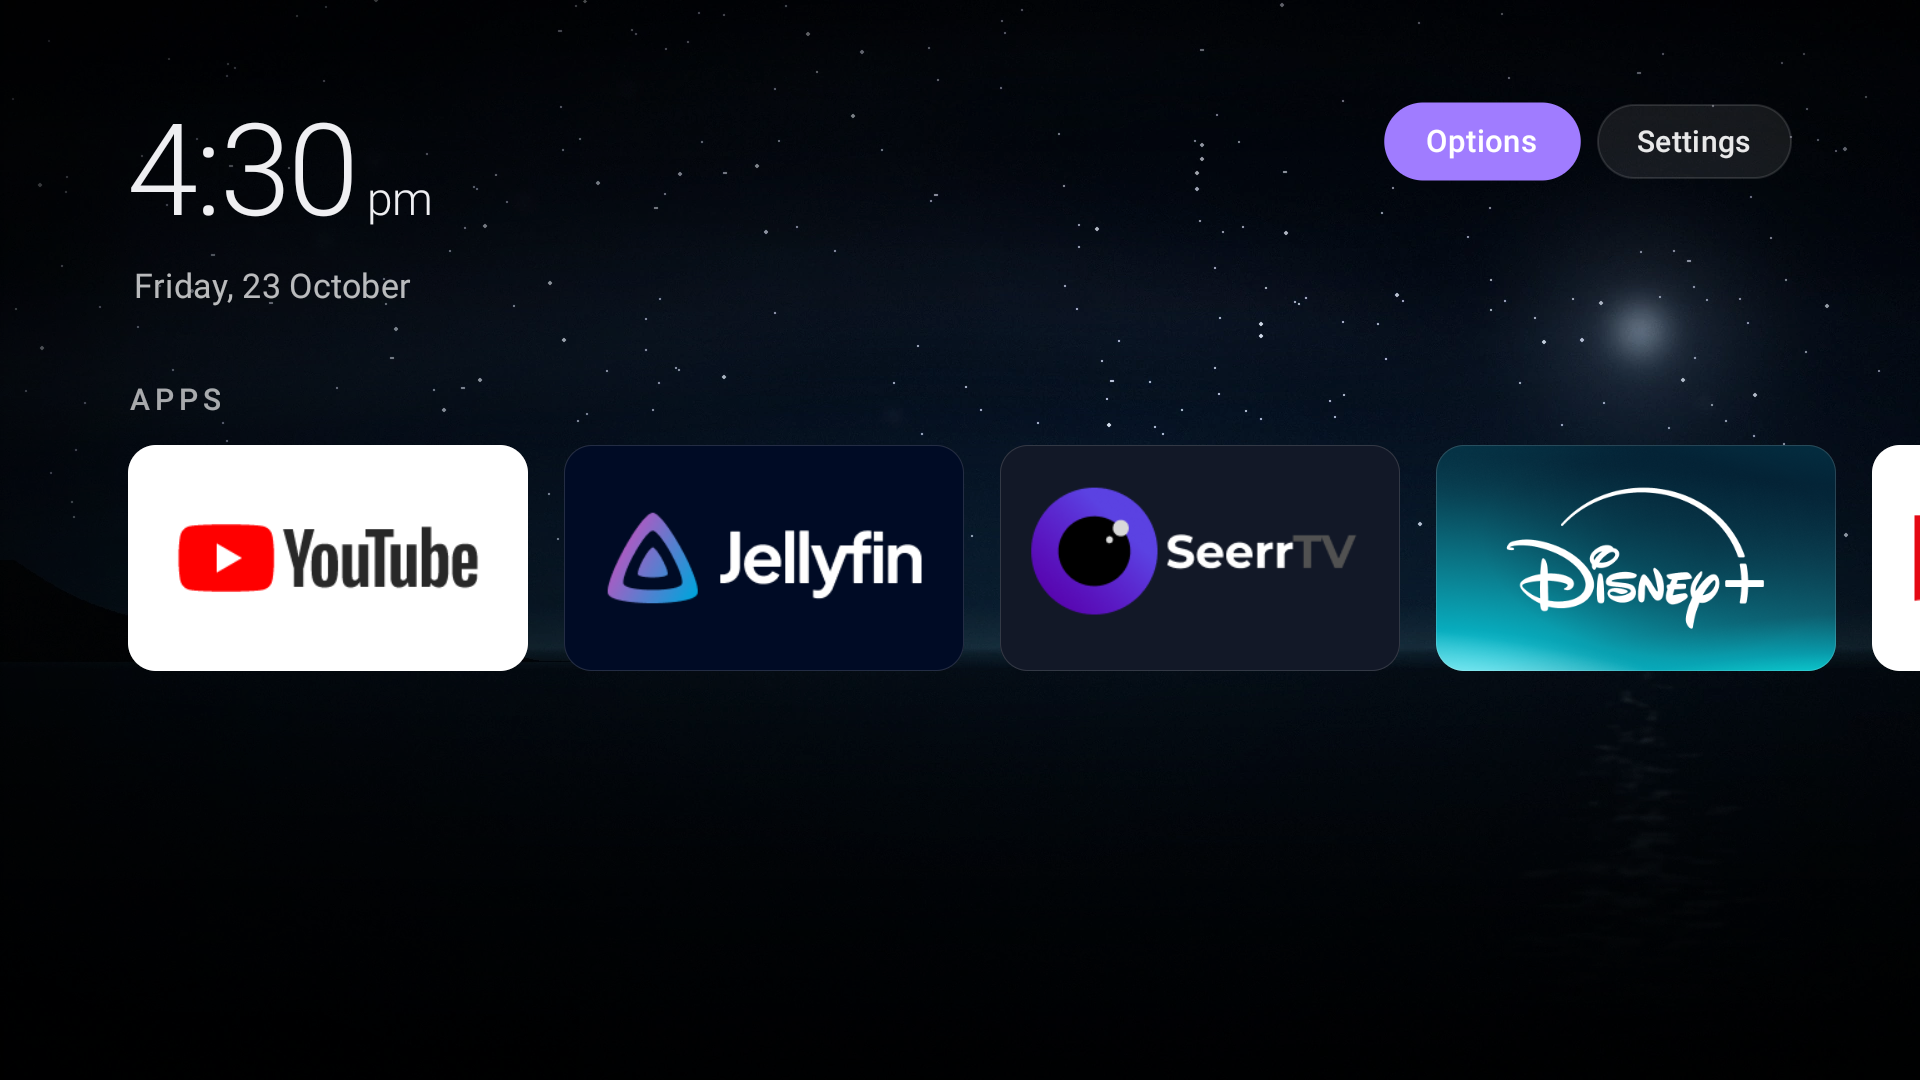
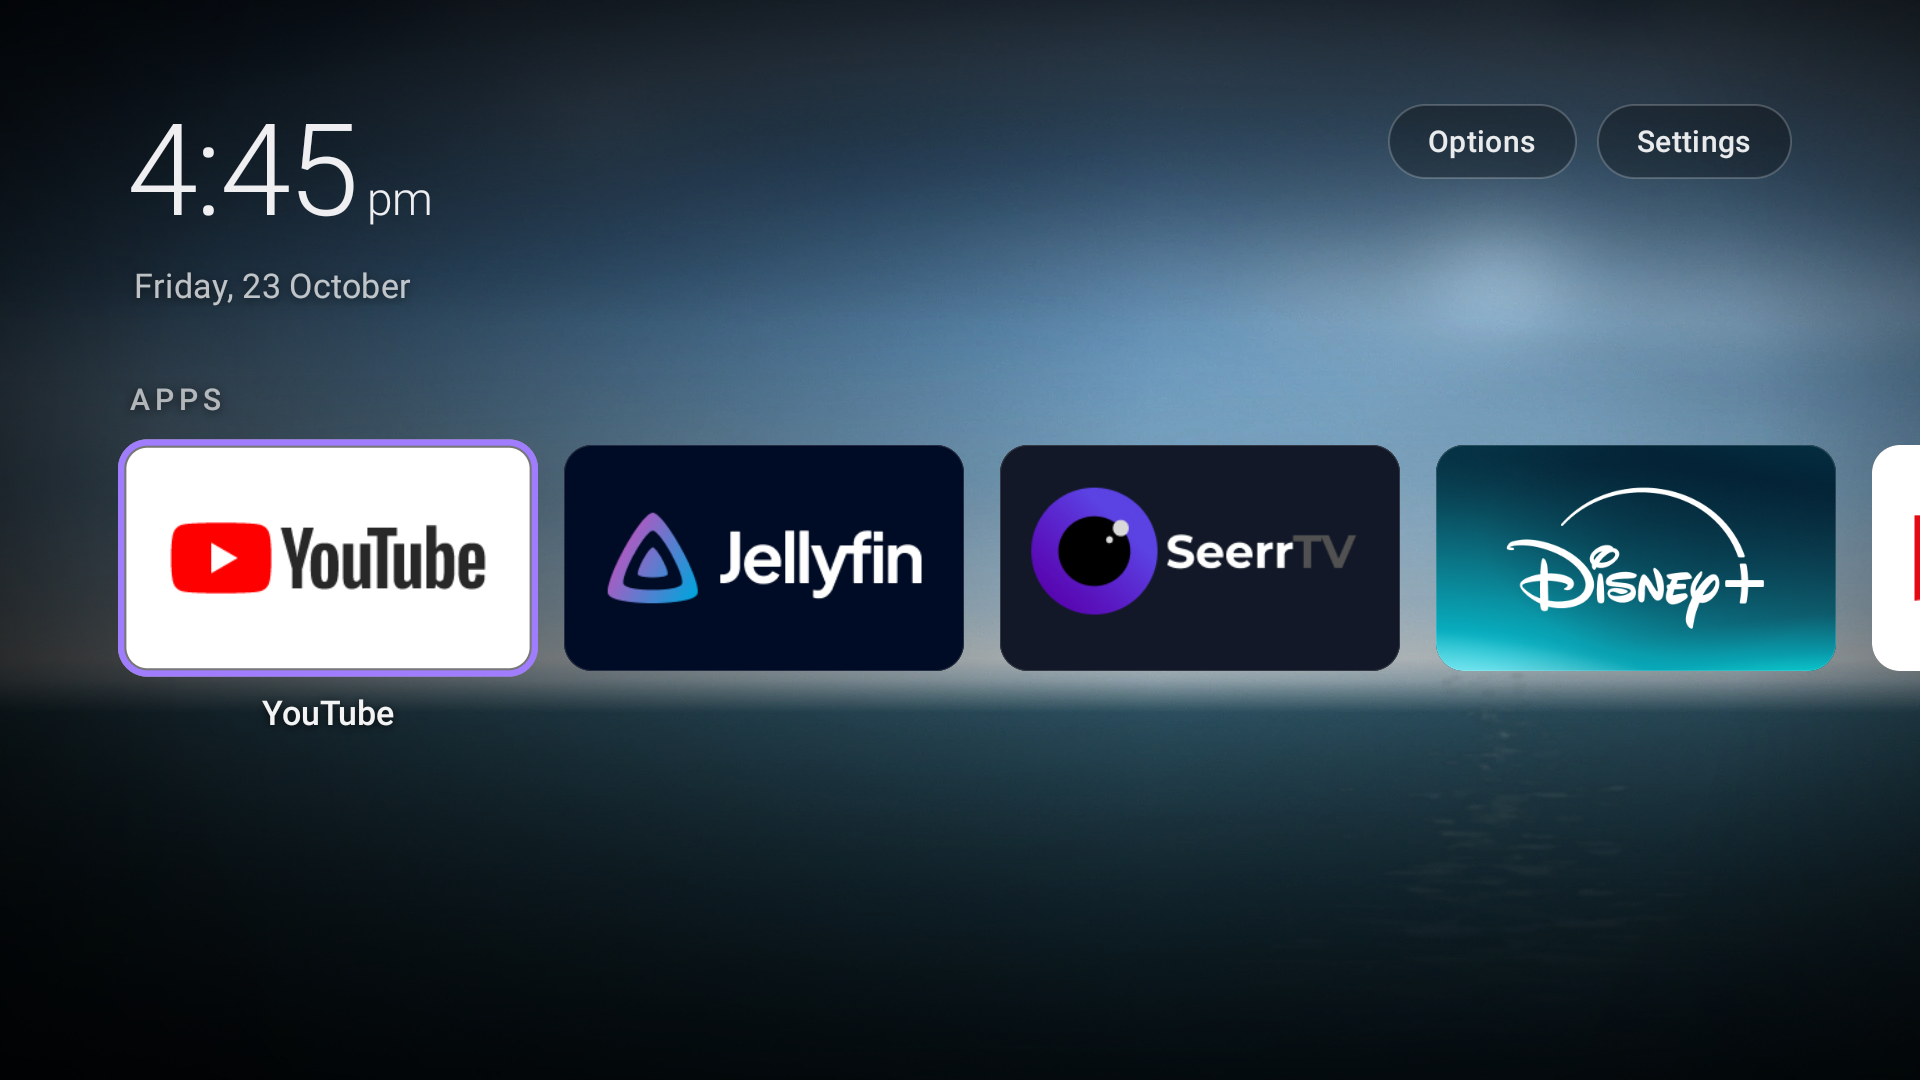
launcher: daylight auto background (1.5)

diff --git a/launcher/src/tv/dumbtv/home/Config.java b/launcher/src/tv/dumbtv/home/Config.java
@@ -74,10 +74,11 @@ final class Config {
             new String[] {"auto", "tv", "home"},
             new String[] {"Automatic", "The TV's app", "dumbtv home"});
     static final Choice BACKGROUND = new Choice("background", "Background", "auto",
-            new String[] {"auto", "aurora", "dunes", "coast", "black", "graphite", "midnight",
+            new String[] {"auto", "day", "aurora", "dunes", "coast", "black", "graphite", "midnight",
                     "image", "adaptive", "adaptive-tint"},
-            new String[] {"Auto by time", "Aurora", "Dunes at dusk", "Moonlit coast", "Black",
-                    "Graphite", "Midnight", "Image file", "Adaptive solid", "Adaptive wallpaper tint"});
+            new String[] {"Auto by time", "Daylight coast", "Aurora", "Dunes at dusk",
+                    "Moonlit coast", "Black", "Graphite", "Midnight", "Image file",
+                    "Adaptive solid", "Adaptive wallpaper tint"});
     static final Choice DIM = new Choice("dim", "Background dim", "0",
             new String[] {"0", "20", "40", "60", "80"},
             new String[] {"0%", "20%", "40%", "60%", "80%"});
@@ -96,7 +97,7 @@ final class Config {
         0xFFFFFFFF, 0xFF3D8BFF, 0xFF2BC4E8, 0xFF34C759, 0xFFFFB340, 0xFFFF5147, 0xFFFF5C9D, 0xFFA07CFF,
     };
     /** Scenes that ship inside the APK, in the order "Next background" steps through them. */
-    static final String[] SCENES = {"aurora", "dunes", "coast"};
+    static final String[] SCENES = {"day", "dunes", "aurora", "coast"};
 
     private static Config instance;
 
@@ -241,8 +242,8 @@ final class Config {
 
     static String autoScene() {
         int h = Calendar.getInstance().get(Calendar.HOUR_OF_DAY);
-        if (h >= 6 && h < 17) return "coast";
-        if (h >= 17 && h < 21) return "dunes";
+        if (h >= 6 && h < 17) return "day";
+        if (h >= 17 && h < 20) return "dunes";
         return "aurora";
     }
 

diff --git a/launcher/src/tv/dumbtv/home/Shade.java b/launcher/src/tv/dumbtv/home/Shade.java
@@ -19,15 +19,17 @@ final class Shade extends View {
     private final Paint paint = new Paint(Paint.ANTI_ALIAS_FLAG);
     private int dim;
     private boolean scenic;
+    private boolean bright;
 
     Shade(Context c) {
         super(c);
     }
 
-    void set(int dimPercent, boolean scenic) {
-        if (this.dim == dimPercent && this.scenic == scenic) return;
+    void set(int dimPercent, boolean scenic, boolean bright) {
+        if (this.dim == dimPercent && this.scenic == scenic && this.bright == bright) return;
         this.dim = dimPercent;
         this.scenic = scenic;
+        this.bright = bright;
         invalidate();
     }
 
@@ -38,12 +40,12 @@ final class Shade extends View {
         if (w == 0 || h == 0) return;
 
         // left: holds the clock and the row titles
-        paint.setShader(new LinearGradient(0, 0, w * 0.60f, 0, 0x80000000, 0x00000000,
+        paint.setShader(new LinearGradient(0, 0, w * 0.60f, 0, bright ? 0xA6000000 : 0x80000000, 0x00000000,
                 Shader.TileMode.CLAMP));
         canvas.drawRect(0, 0, w * 0.60f, h, paint);
 
         // top: keeps the chips readable if the sky is bright
-        paint.setShader(new LinearGradient(0, 0, 0, h * 0.30f, 0x66000000, 0x00000000,
+        paint.setShader(new LinearGradient(0, 0, 0, h * 0.30f, bright ? 0x99000000 : 0x66000000, 0x00000000,
                 Shader.TileMode.CLAMP));
         canvas.drawRect(0, 0, w, h * 0.30f, paint);
 
@@ -56,7 +58,7 @@ final class Shade extends View {
 
         // corners fall away, so the eye stays on the rows
         paint.setShader(new RadialGradient(w * 0.5f, h * 0.44f, Math.max(w, h) * 0.72f,
-                new int[] {0x00000000, 0x00000000, 0x66000000},
+                new int[] {0x00000000, 0x00000000, bright ? 0x80000000 : 0x66000000},
                 new float[] {0f, 0.58f, 1f}, Shader.TileMode.CLAMP));
         canvas.drawRect(0, 0, w, h, paint);
 

diff --git a/launcher/src/tv/dumbtv/home/Home.java b/launcher/src/tv/dumbtv/home/Home.java
@@ -129,6 +129,7 @@ public final class Home extends Activity {
             title = Ui.text(Home.this, 15, 0xA6FFFFFF, Ui.MEDIUM);
             title.setText(name.toUpperCase(Locale.ROOT));
             title.setLetterSpacing(0.16f);
+            title.setShadowLayer(dp(4), 0, dp(1), 0x99000000);
             title.setPadding(edge, dp(24), edge, dp(2));
             strip = new LinearLayout(Home.this);
             strip.setClipChildren(false);
@@ -475,6 +476,7 @@ public final class Home extends Activity {
         clock.setLetterSpacing(-0.02f);
         date = Ui.text(this, 17, Ui.MUTED, Ui.REGULAR);
         date.setLetterSpacing(0.01f);
+        date.setShadowLayer(dp(4), 0, dp(1), 0x99000000);
         date.setPadding(dp(3), dp(10), 0, 0);
         when.addView(clock);
         when.addView(date);
@@ -761,7 +763,7 @@ public final class Home extends Activity {
             root.setBackgroundColor(cfg.background());
         }
         int dim = Integer.parseInt(cfg.get(Config.DIM));
-        shade.set(dim, scene != null || file != null);
+        shade.set(dim, scene != null || file != null, "day".equals(scene));
         String key = scene != null ? "scene:" + scene
                 : file == null ? null : file.getPath() + ":" + file.lastModified();
         if (key == null ? wallKey == null : key.equals(wallKey)) return;

diff --git a/launcher/src/tv/dumbtv/home/Ui.java b/launcher/src/tv/dumbtv/home/Ui.java
@@ -57,7 +57,7 @@ final class Ui {
     static void focusStyle(TextView v, int accent, float radius) {
         StateListDrawable bg = new StateListDrawable();
         bg.addState(new int[] {android.R.attr.state_focused}, round(accent, radius));
-        bg.addState(new int[0], round(0x14FFFFFF, radius, HAIRLINE, Ui.dp(v.getContext(), 1)));
+        bg.addState(new int[0], round(0x4D000000, radius, 0x33FFFFFF, Ui.dp(v.getContext(), 1)));
         v.setBackground(bg);
         v.setTextColor(new ColorStateList(
                 new int[][] {{android.R.attr.state_focused}, {}},

diff --git a/FORK.md b/FORK.md
@@ -2,7 +2,7 @@
 
 **Short description for GitHub (About):**
 
-> A fork of dumbtv home: a quieter, cinematic Fire TV launcher with three bundled
+> A fork of dumbtv home: a quieter, cinematic Fire TV launcher with four bundled
 > ambient scenes and a working HOME takeover on Fire OS 8. Still offline, ad-free,
 > and permission-free on Fire OS 7/8. Apps and HDMI inputs only.
 
@@ -21,8 +21,9 @@ Fire OS.
 - **A new look.** Full-bleed ambient scenes, a layered scrim, a 64 sp light clock,
   larger 16:9 cards, a softer multi-cue focus state, and a redesigned Options
   screen.
-- **Three built-in scenes.** Aurora, Dunes at dusk and Moonlit coast are packed
-  into the APK (1920×1080 WebP). `Auto` follows the time of day; `Next background`
+- **Four built-in scenes.** Daylight coast, Aurora, Dunes at dusk and Moonlit
+  coast are packed into the APK (1920×1080 WebP). `Auto` follows the clock:
+  daylight 06:00–17:00, dunes 17:00–20:00, aurora at night. `Next background`
   steps through them. No download, no storage permission.
 - **Fast Fire OS 8 HOME path.** On top of upstream's cover-based fix, Guard moves
   the existing Home task to the front first (`AppTask.moveToFront`, targeting the
@@ -39,9 +40,9 @@ Fire OS.
 
 ![Options](docs/screenshots/options.png)
 
-| Aurora | Dunes at dusk | Moonlit coast |
-|---|---|---|
-| ![Aurora](docs/screenshots/aurora.jpg) | ![Dunes at dusk](docs/screenshots/dunes.jpg) | ![Moonlit coast](docs/screenshots/coast.jpg) |
+| Daylight coast | Aurora | Dunes at dusk | Moonlit coast |
+|---|---|---|---|
+| ![Daylight coast](docs/screenshots/day.jpg) | ![Aurora](docs/screenshots/aurora.jpg) | ![Dunes at dusk](docs/screenshots/dunes.jpg) | ![Moonlit coast](docs/screenshots/coast.jpg) |
 
 The screenshots show the real app row of the test TV; they contain no server
 addresses, account details, IPs or setup tokens.
@@ -57,7 +58,7 @@ addresses, account details, IPs or setup tokens.
 
 ## Install
 
-The download URL points at this fork. Until `launcher-v1.4` is published here,
+The download URL points at this fork. Until `launcher-v1.5` is published here,
 build and install from source:
 
 ```sh
@@ -78,6 +79,6 @@ build-tools. No Gradle.
 
 - Upstream: [humblemuzzu/dumbtv](https://github.com/humblemuzzu/dumbtv)
 - Not affiliated with or endorsed by upstream.
-- License: MIT (see [LICENSE](LICENSE)); the three scenes are original artwork
+- License: MIT (see [LICENSE](LICENSE)); the four scenes are original artwork
   generated for this fork.
-- Version: 1.4. See `launcher/version.env`; changes are in [CHANGELOG.md](CHANGELOG.md).
+- Version: 1.5. See `launcher/version.env`; changes are in [CHANGELOG.md](CHANGELOG.md).

diff --git a/launcher/README.md b/launcher/README.md
@@ -6,7 +6,7 @@ A home screen for Fire TV that does one job: show your apps and your HDMI inputs
   <img src="../docs/assets/screens/home.png" alt="dumbtv home: a clock, an Apps row and an Inputs row" width="720">
 </p>
 
-- **About 490 KB including three scenes.** Plain Java and Android views. No
+- **About 620 KB including four scenes.** Plain Java and Android views. No
   AndroidX, Kotlin, Compose, Play Services or any other library.
 - **No network.** There is no `INTERNET` permission, so Android will not let it
   open a connection.
@@ -23,9 +23,10 @@ A home screen for Fire TV that does one job: show your apps and your HDMI inputs
 This fork tracks upstream launcher 1.2 — grid layout, the built-in HDMI input
 screen, adaptive backgrounds and the upstream Fire OS 8 HOME fix — and adds:
 
-- **Three built-in scenes:** Aurora, Dunes at dusk and Moonlit coast, packed into
-  the APK at 1920×1080. `Auto` follows the time of day; `Next background` steps
-  through them. No download or storage permission.
+- **Four built-in scenes:** Daylight coast, Aurora, Dunes at dusk and Moonlit
+  coast, packed into the APK at 1920×1080. `Auto` follows the clock: daylight
+  06:00–17:00, dunes 17:00–20:00, aurora at night. `Next background` steps through
+  them. No download or storage permission.
 - **The scene layer:** a layered left/top/bottom scrim with corner falloff, a
   64 sp light clock, larger cards and type, a softer multi-cue focus state, and
   the grouped Options screen.
@@ -78,7 +79,7 @@ Undo: `./launcher/install.sh --undo` gives HOME back to Amazon's launcher.
 | Clock | system, 24-hour, 12-hour |
 | Inputs row | shown, hidden |
 | Open inputs with | Automatic, the TV's app, dumbtv home (see below) |
-| Background | auto, aurora, dunes, coast, black, graphite, midnight, image, adaptive, adaptive tint |
+| Background | auto, daylight coast, aurora, dunes, coast, black, graphite, midnight, image, adaptive, adaptive tint |
 | Background dim, wallpaper rotation | for scenes and images |
 
 Below them: Next background, which apps and inputs appear on the home screen, a

diff --git a/CHANGELOG.md b/CHANGELOG.md
@@ -3,6 +3,19 @@
 Changes in this fork relative to upstream dumbtv home. Upstream baseline:
 [dumbtv home 1.1](https://github.com/humblemuzzu/dumbtv).
 
+## 1.5 — 2026-10-23
+
+**Daylight background, and `Auto` now follows a full day.**
+
+- Added a fourth scene, **Daylight coast**: blue sky, cloud, sun and open sea, no
+  stars or moon.
+- `Auto` now maps 06:00–17:00 to Daylight coast, 17:00–20:00 to Dunes at dusk and
+  the rest to Aurora. Previously 06:00–17:00 used the moonlit coast, so a 4pm
+  screen showed a starry night.
+- The day scene gets a stronger left/top scrim; the date, row labels and idle
+  chips also gained contrast so white type holds over a bright sky.
+- APK: 627,582 bytes with four scenes; SHA-256 pinned in `launcher/version.env`.
+
 ## 1.4 — 2026-10-23
 
 **Merged upstream 1.2 (95 commits) and kept the fork's look.**

diff --git a/README.md b/README.md
@@ -72,7 +72,7 @@ no root:
   stops Amazon's telemetry and automatic updates from reaching their servers.
   Everything else, including your streaming apps, works as before.
 - **Replaces the home screen** with [dumbtv home](launcher/README.md): your apps,
-  your inputs and a clock. About 490 KB including three scenes, open source, no internet access, no permissions.
+  your inputs and a clock. About 620 KB including four scenes, open source, no internet access, no permissions.
 - **Leaves your apps alone.** Nothing you watch is removed unless you name it.
 - **Can all be undone** with one command.
 

diff --git a/docs/FAQ.md b/docs/FAQ.md
@@ -106,7 +106,7 @@ the rest of the cleanup: the packages, the settings and the home screen.
 
 **Why its own launcher?**
 A home screen needs no internet access, no advertising ID and no permission to
-install apps. dumbtv home is about 490 KB including three scenes, open source and asks for no permissions on
+install apps. dumbtv home is about 620 KB including four scenes, open source and asks for no permissions on
 Fire OS 7 and 8. Check it yourself: `aapt2 dump permissions dumbtv-home.apk`
 lists three, each limited to Android 8.1 and earlier, which only Fire OS 6's Keeper
 uses.
